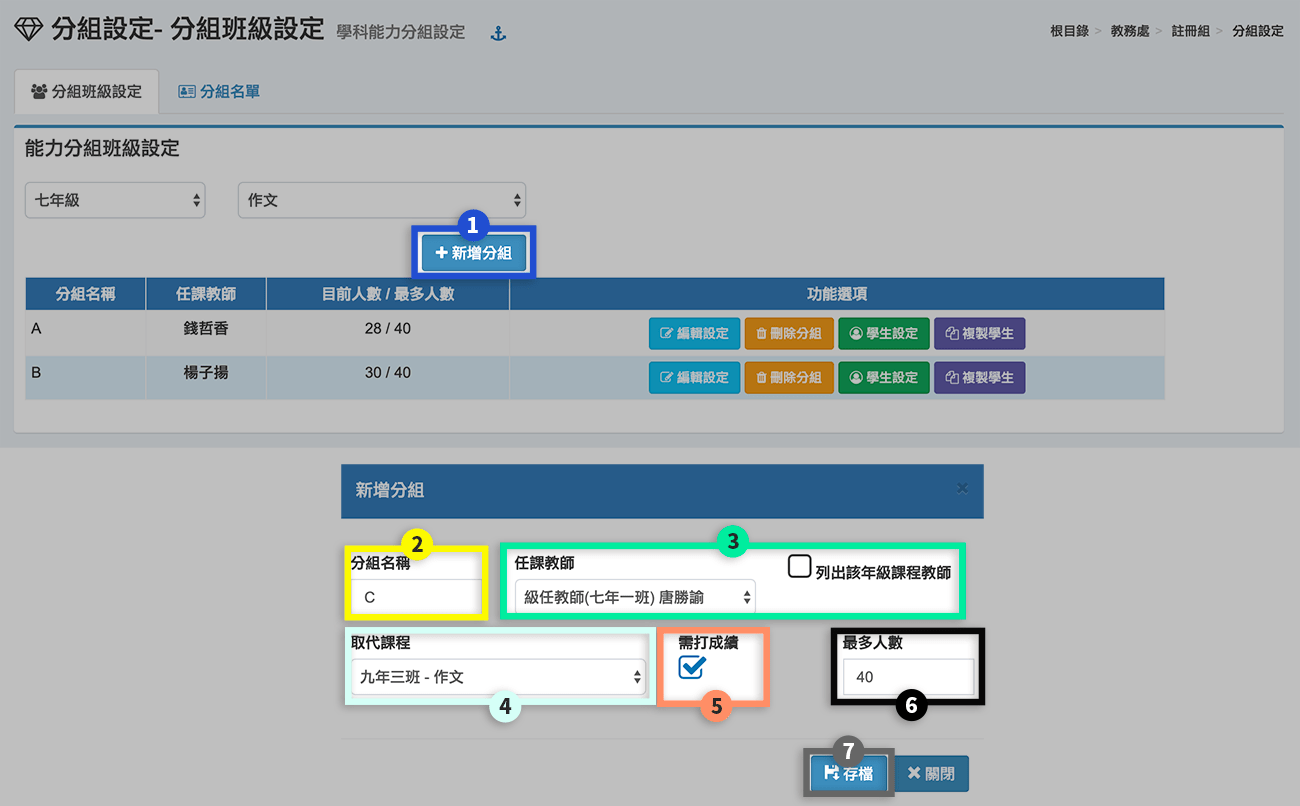
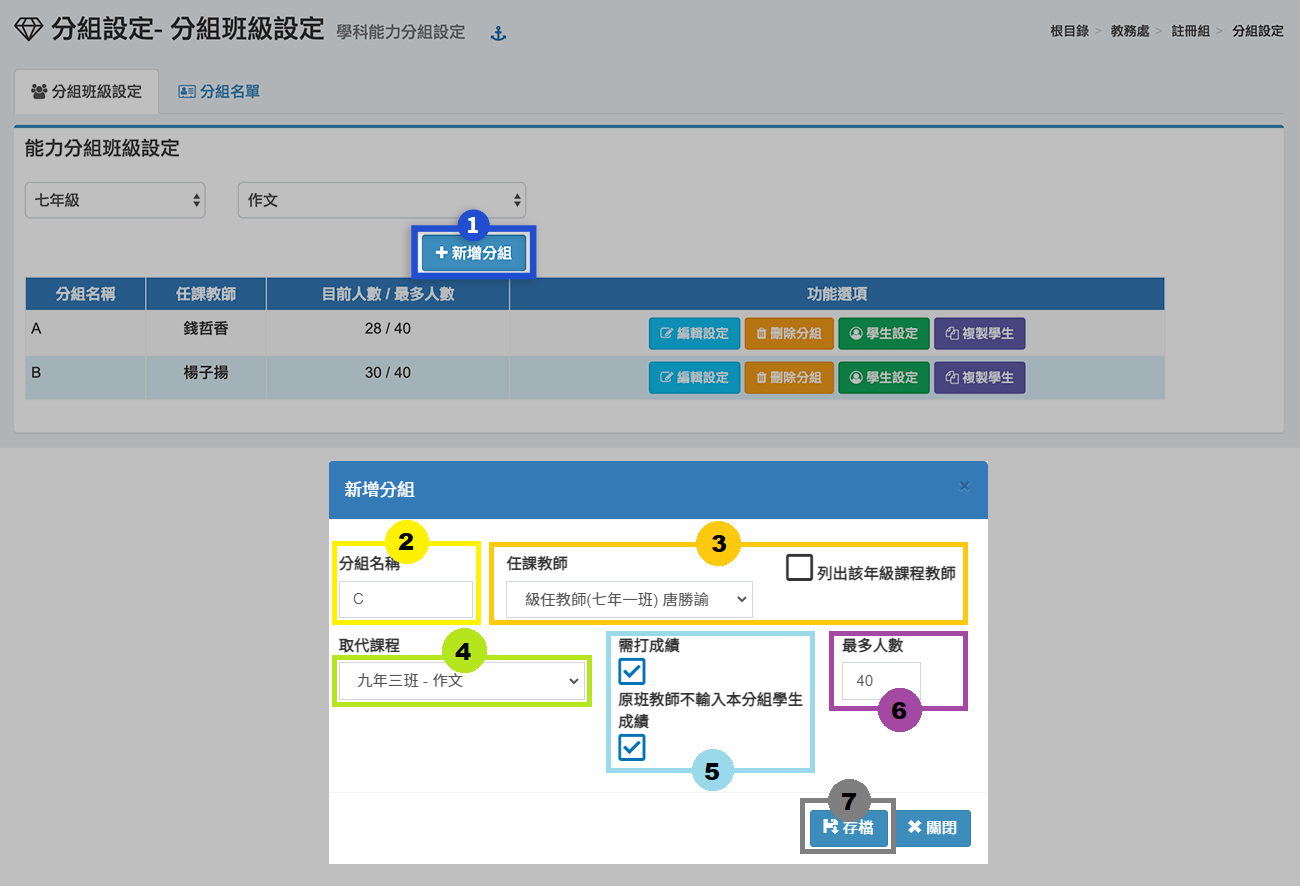
GitBook: [#442] [更新] 分組設定_原班老師不須輸入本分組成績_1223

diff --git a/jiao/fen-ding.md b/jiao/fen-ding.md
@@ -12,7 +12,9 @@
 4. 選擇**「取代課程」**，可不選擇。
    * 有取代課程：任課教師輸入成績的班級項目，將會被分組班級項目取代。
    * 沒有取代課程：任課教師在輸入成績的選單中，原班項目、分組班級項目都會出現。
-5. 勾選**「是否需打成績」**：不需打成績，則此分組將不會出現在輸入成績的班級選單內。
+5. 勾選**「是否需打成績」**：不需打成績，則此分組將不會出現在輸入成績的班級選單內。\
+   有取代課程：任課教師輸入成績的班級項目，將會被分組班級項目取代。\
+   勾選**「原班教師不輸入本分組學生成績」**：若該分組為抽離式上課，勾選後原班老師於原班項目成績輸入將不會顯示本分組的學生。
 6. 輸入分組班級**「最多人數」**。
 7. 按下**「存檔」**，新增一個分組班。
 {% endtab %}
